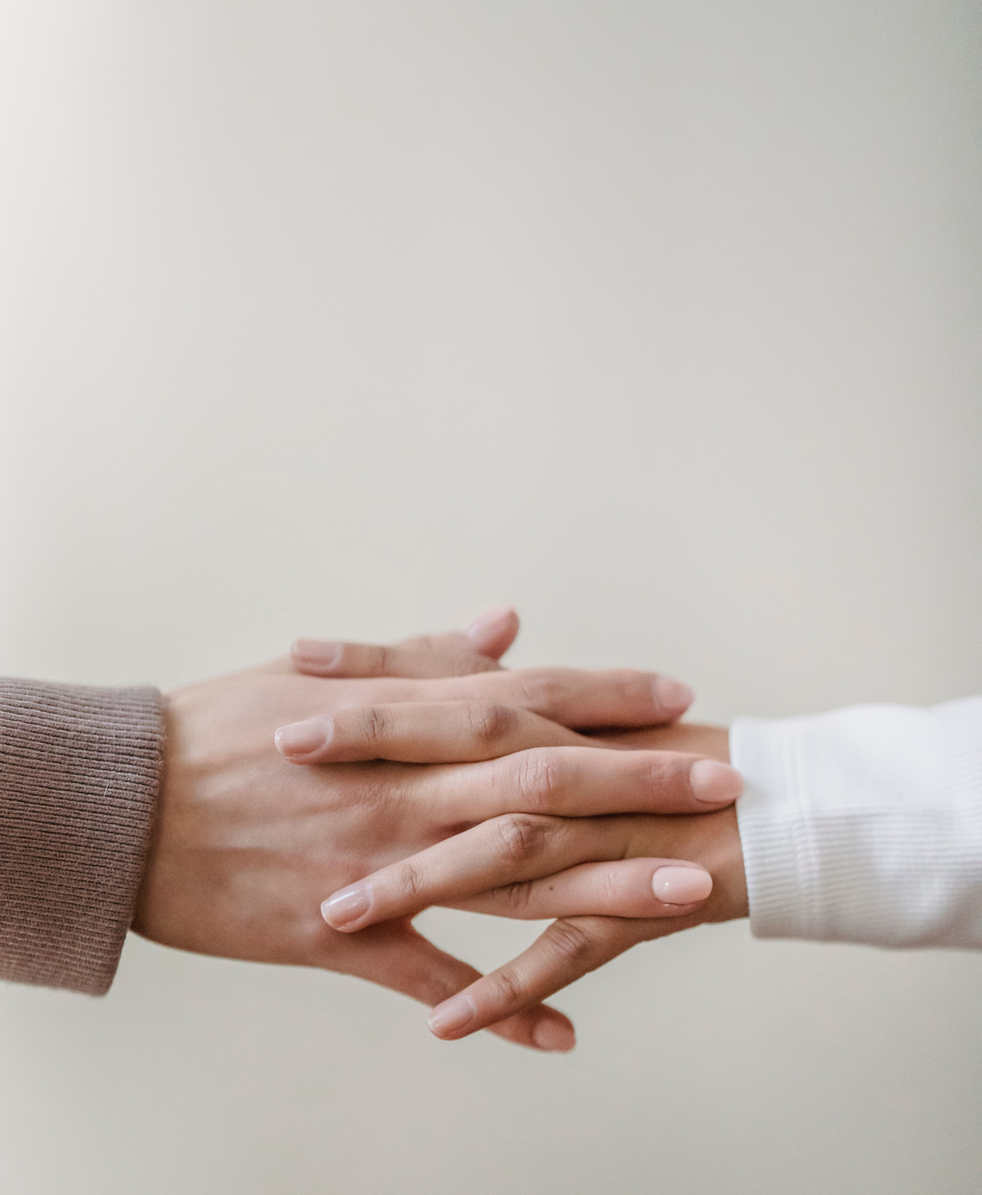
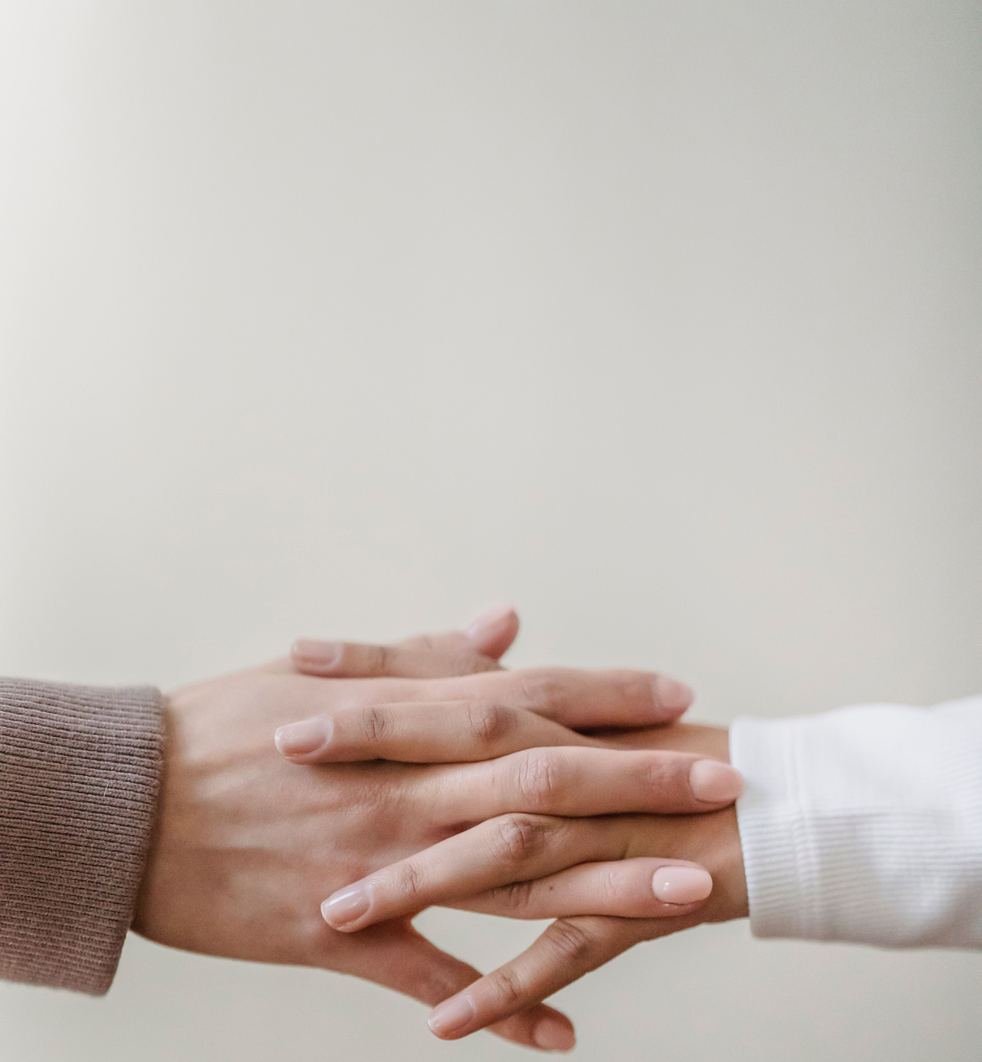
done

Changed region(s): [[0.0, 0.4993, 1.0, 0.9986]]

diff --git a/src/components/Footer.tsx b/src/components/Footer.tsx
@@ -1,0 +1,91 @@
+
+import React from "react";
+
+function Footer() {
+  const quickLinks = [
+    ["Home", "#home"],
+    ["About Us", "#about"],
+    ["What We Do", "#what-we-do"],
+    ["Our Impact", "#impact"],
+    ["Contact", "#contact"],
+  ];
+
+  const contactInfo = [
+    ["Email", "hello@helpinghands.org", "mailto:hello@helpinghands.org"],
+    ["Phone", "+92 300 1234567", "tel:+923001234567"],
+    ["Location", "Karachi, Pakistan", ""],
+  ];
+
+  const socialLinks = ["Facebook", "Instagram", "LinkedIn"];
+
+  return (
+    <footer className="bg-gray-200 items-center gap-10 px-10 md:px-20">
+      {/* Main Footer */}
+      <div className="mx-auto max-w-7xl px-6 py-16 lg:px-8">
+
+        <div className="grid grid-cols-1 gap-12 md:grid-cols-2 justify-between">
+
+          {/* Quick Links */}
+          <div>
+            <h3 className="text-lg font-semibold">Quick Links</h3>
+
+            <ul className="mt-5 space-y-3 text-sm text-gray-900">
+              {quickLinks.map(([name, link]) => (
+                <li key={name}>
+                  <a href={link} className="transition">
+                    {name}
+                  </a>
+                </li>
+              ))}
+            </ul>
+          </div>
+
+          {/* Contact */}
+          <div className="md:justify-self-end">
+            <h3 className="text-lg font-semibold">Get In Touch</h3>
+
+            <ul className="mt-5 space-y-4 text-sm text-gray-500">
+              {contactInfo.map(([label, value, link]) => (
+                <li key={label}>
+                  <span className="block text-gray-500">{label}</span>
+
+                  {link ? (
+                    <a href={link} className="transition">
+                      {value}
+                    </a>
+                  ) : (
+                    <span>{value}</span>
+                  )}
+                </li>
+              ))}
+            </ul>
+          </div>
+
+        </div>
+
+        {/* Divider */}
+        <div className="my-10 h-px bg-white"></div>
+
+        {/* Bottom Footer */}
+        <div className="flex flex-col items-center justify-between gap-5 md:flex-row">
+
+          <p className="text-sm text-gray-500">
+            © 2026 Khawab. All rights reserved.
+          </p>
+
+          <div className="flex gap-6 text-sm text-gray-500">
+            {socialLinks.map((social) => (
+              <a key={social} href="#" className="transition">
+                {social}
+              </a>
+            ))}
+          </div>
+
+        </div>
+      </div>
+    </footer>
+  );
+}
+
+export default Footer;
+

diff --git a/src/App.tsx b/src/App.tsx
@@ -1,17 +1,61 @@
 import React from 'react'
 import Header from './components/Header';
 import Hero from './components/Hero';
+import WhoWeAre from './components/WhoWeAre';
+import childrenImg from './assets/childrenImg.jpg'
+import food from './assets/food.jpg'
+import education from './assets/education.jpg'
+import helpCommunities from './assets/helpCommunities.jpg'
+import supportFamilies from './assets/supportFamilies.jpg'
+import WhatWeDo from './components/WhatWeDo';
+import Footer from './components/Footer';
 
 
 function App() {
   return (
     <>
-      <main className='main relative '>
-        <div className='absolute inset-0 bg-black/30 '></div>
+      <main className="main relative mb-5 ">
+        {/* <div className="absolute inset-0 bg-black/30 "></div> */}
         <Header />
         <Hero />
       </main>
-   
+      <WhoWeAre
+        image={childrenImg}
+        head="We believe every act of kindness can create a lasting change."
+        para="  Khawaab is a community-driven charity committed to supporting people
+        and communities facing difficult circumstances. We connect compassion
+        with meaningful action, turning donations and volunteer efforts into
+        practical support for those who need it most."
+        variant="primary"
+        btnText="Learn more about our work →"
+      />
+      <div className="whatwedo bg-gray-200 mt-10  grid grid-cols-1 sm:grid-cols-2 lg:grid-cols-4 min-h-screen items-center gap-10 px-10 md:px-20">
+        <WhatWeDo
+          img={food}
+          head="Support Families"
+          des="We provide essential support to families facing financial hardship, helping them meet their everyday needs."
+          btn="read more"
+        />
+        <WhatWeDo
+          img={supportFamilies}
+          head="Provide Food"
+          des="We distribute nutritious meals and food packages to individuals and communities experiencing food insecurity."
+          btn="read more"
+        />
+        <WhatWeDo
+          img={helpCommunities}
+          head="Empower Through Education"
+          des="We help children and young people access educational resources and opportunities for a brighter future."
+          btn="read more"
+        />
+        <WhatWeDo
+          img={education}
+          head="Help Communities"
+          des="We support vulnerable communities through essential resources that create lasting positive change."
+          btn="read more"
+        />
+      </div>
+      <Footer />
     </>
   );
 }

diff --git a/src/components/WhatWeDo.tsx b/src/components/WhatWeDo.tsx
@@ -1,0 +1,33 @@
+import React from 'react'
+
+interface WhatwedoProps{
+  img: string;
+  head:string;
+  des: string
+  btn:string
+}
+function WhatWeDo({img,head,des,btn}:WhatwedoProps) {
+  return (
+    
+    <div className="relative py-15 flex w-80 flex-col rounded-xl bg-white bg-clip-border text-gray-700 shadow-md">
+      <div className="relative mx-4 -mt-6 h-40 overflow-hidden rounded-xl bg-blue-gray-500 bg-clip-border text-white shadow-lg shadow-blue-gray-500/40 bg-gradient-to-r ">
+        <img src={img} alt="" />
+      </div>
+      <div className="p-6">
+        <h5 className="mb-2 block font-sans text-xl font-semibold leading-snug tracking-normal text-blue-gray-900 antialiased">
+        {head}
+        </h5>
+        <p className="block font-sans text-base font-light leading-relaxed text-inherit antialiased">
+       {des}
+        </p>
+      </div>
+      <div className="p-6 pt-0">
+        <button data-ripple-light="true" type="button" className="select-none rounded-lg bg-black py-3 px-6 text-center align-middle font-sans text-xs font-bold uppercase text-white shadow-md shadow-blue-500/20 transition-all hover:shadow-lg  focus:opacity-[0.85] focus:shadow-none active:opacity-[0.85] active:shadow-none disabled:pointer-events-none disabled:opacity-50 disabled:shadow-none">
+          {btn}
+        </button>
+      </div>
+    </div>
+  )
+}
+
+export default WhatWeDo

diff --git a/src/components/Hero.tsx b/src/components/Hero.tsx
@@ -3,15 +3,14 @@ import Button from './Button';
 
 function Hero() {
   return (
-    <div className="hero flex items-center justify-center mt-[100px] flex-col gap-[40px] z-30">
-     
-        <h1 className="text-7xl font-bold flex flex-col items-center justify-center">
-          Together,
-          <span className="text-4xl mt-3 font-bold">
-            we can turn compassion into real change.
-          </span>
-        </h1>
-  
+    <div className="hero flex items-center justify-center mt-[130px] flex-col gap-[40px] relative z-30 px-10 md:px-20">
+      <div className="flex flex-col items-center justify-center h-[200px] w-full text-center">
+        <h1 className="text-5xl md:text-7xl font-bold">Together,</h1>
+        <span className="text-2xl md:text-4xl mt-3 font-bold block">
+          we can turn compassion into real change.
+        </span>
+      </div>
+
       <div className="hero-bt  flex gap-5">
         <Button variant="primary">Donate</Button>
         <Button variant="secondary">learn more</Button>

diff --git a/src/components/Header.tsx b/src/components/Header.tsx
@@ -6,14 +6,14 @@ function Header() {
 const gap = "flex gap-4 font-bold items-center justify-center";
 
   return (
-    <header className="h-[80px] p-5 border-b border-white/90 flex justify-between z-30">
+    <header className="h-[70px] p-5 border-b border-white/90 flex justify-between items-center relative z-30 px-10 md:px-20">
       <div className="left ">
         <p className="logo">khawaab</p>
       </div>
-      <nav className={`center ${gap}`}>
-        <a href="#home">Who we are</a>
-        <a href="#about">What we do</a>
-        <a href="#how-it-works">News&Events</a>
+      <nav className='hidden md:flex gap-4 font-bold items-center justify-center'>
+        <a href="#whoWeAre">Who we are</a>
+        <a href="#whatWeDo">What we do</a>
+        <a href="#News">News&Events</a>
       </nav>
       <div className={`right ${gap}`}>
         <a href="#donate">Donate</a>

diff --git a/src/components/WhoWeAre.tsx b/src/components/WhoWeAre.tsx
@@ -1,0 +1,27 @@
+import React from 'react'
+import Button from './Button';
+
+interface WhoWeAreProps {
+  image: string;
+  head: string;
+  para: string;
+  variant: "primary" | "secondary";
+  btnText: string;
+}
+
+function WhoWeAre({image,head,para,variant,btnText}:WhoWeAreProps) {
+  return (
+    <div className="who-we-are  grid grid-cols-1 md:grid-cols-2 min-h-screen items-center gap-10 px-10 md:px-20">
+     
+        <img src={image} alt="" className="w-full h-[400px] object-cover rounded-xl" />
+      <div className="text flex flex-col gap-10  justify-start">
+          <h2 className='text-3xl font-bold'>{head}</h2>
+          <p className='text-gray-500'>{para}</p>
+          <Button variant={variant}>{btnText}</Button>
+        </div>
+ 
+    </div>
+  );
+}
+
+export default WhoWeAre

diff --git a/src/index.css b/src/index.css
@@ -5,7 +5,7 @@
 
 .main{
   background: url('./assets/heroImg.jpg');
-  min-height: 140dvh;
+  min-height: 120dvh;
   background-size: cover;
   background-position: center;
   overflow: hidden;
